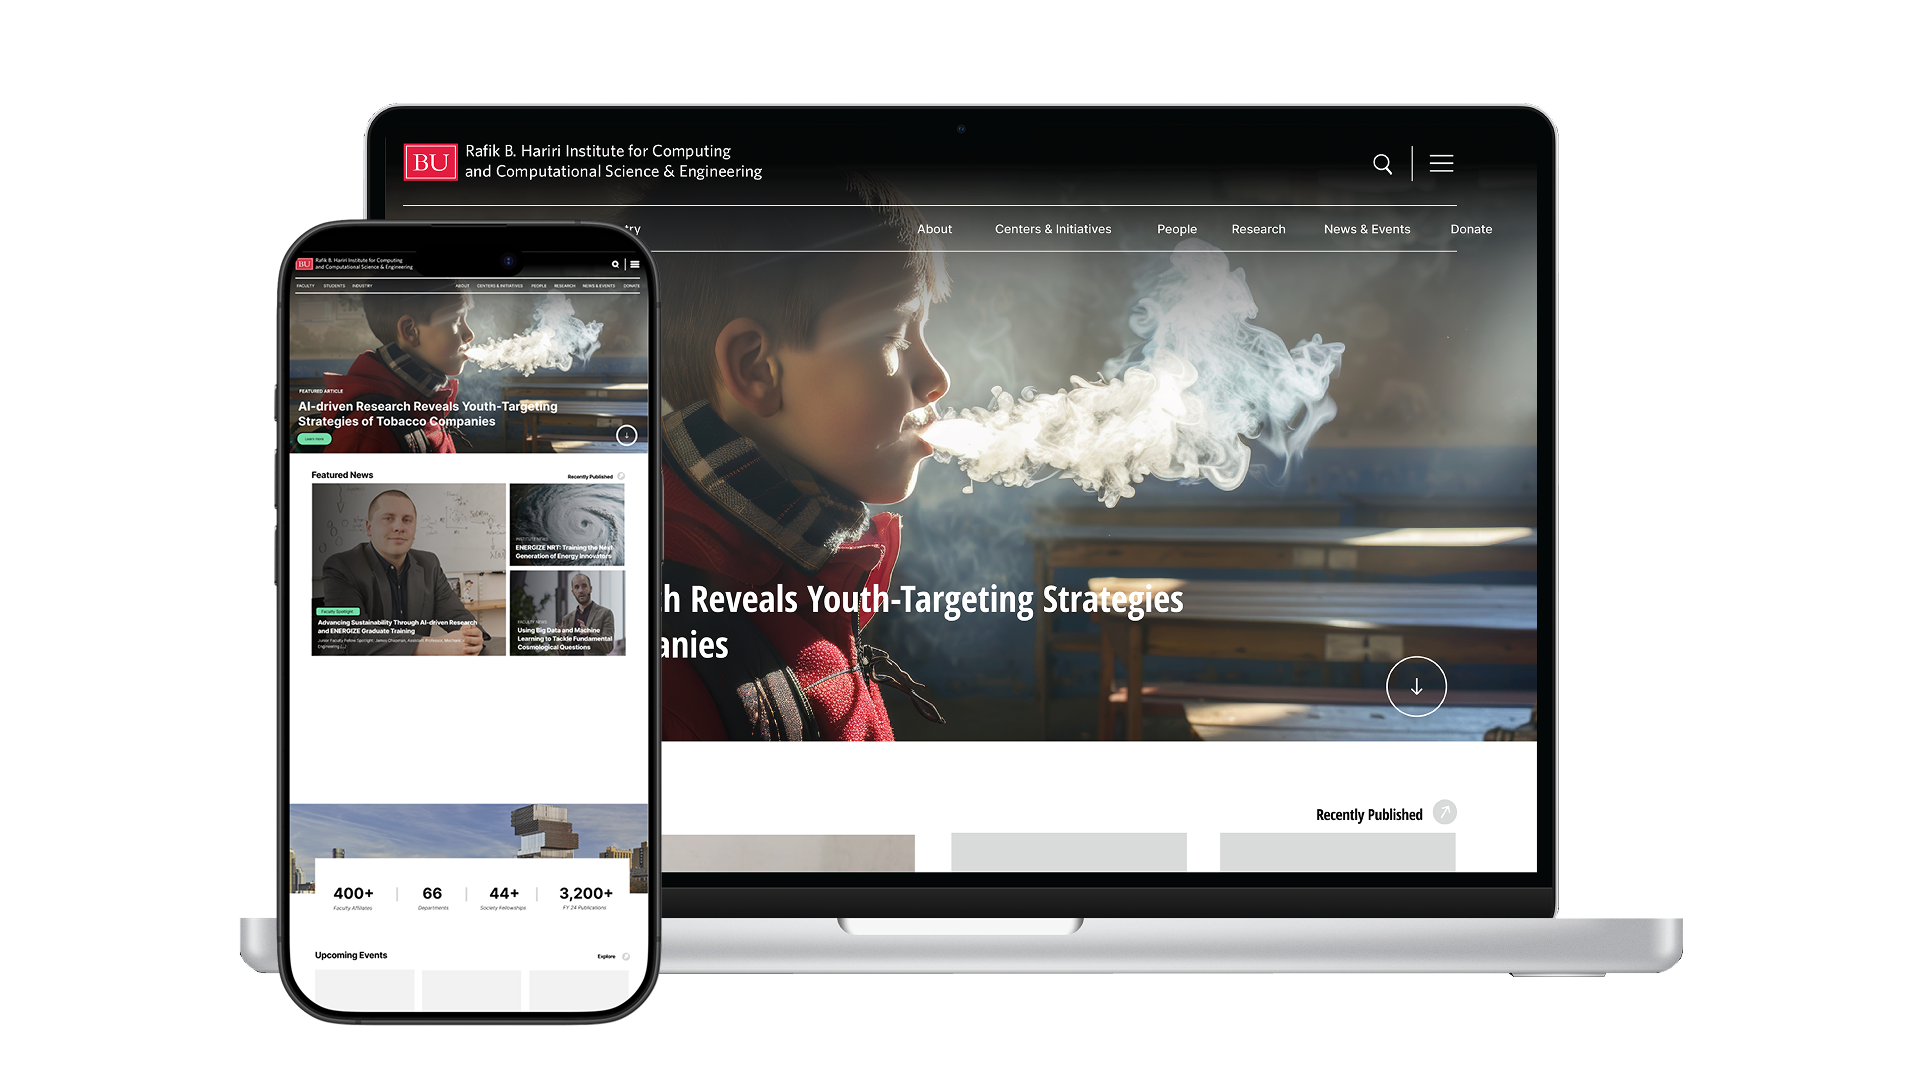
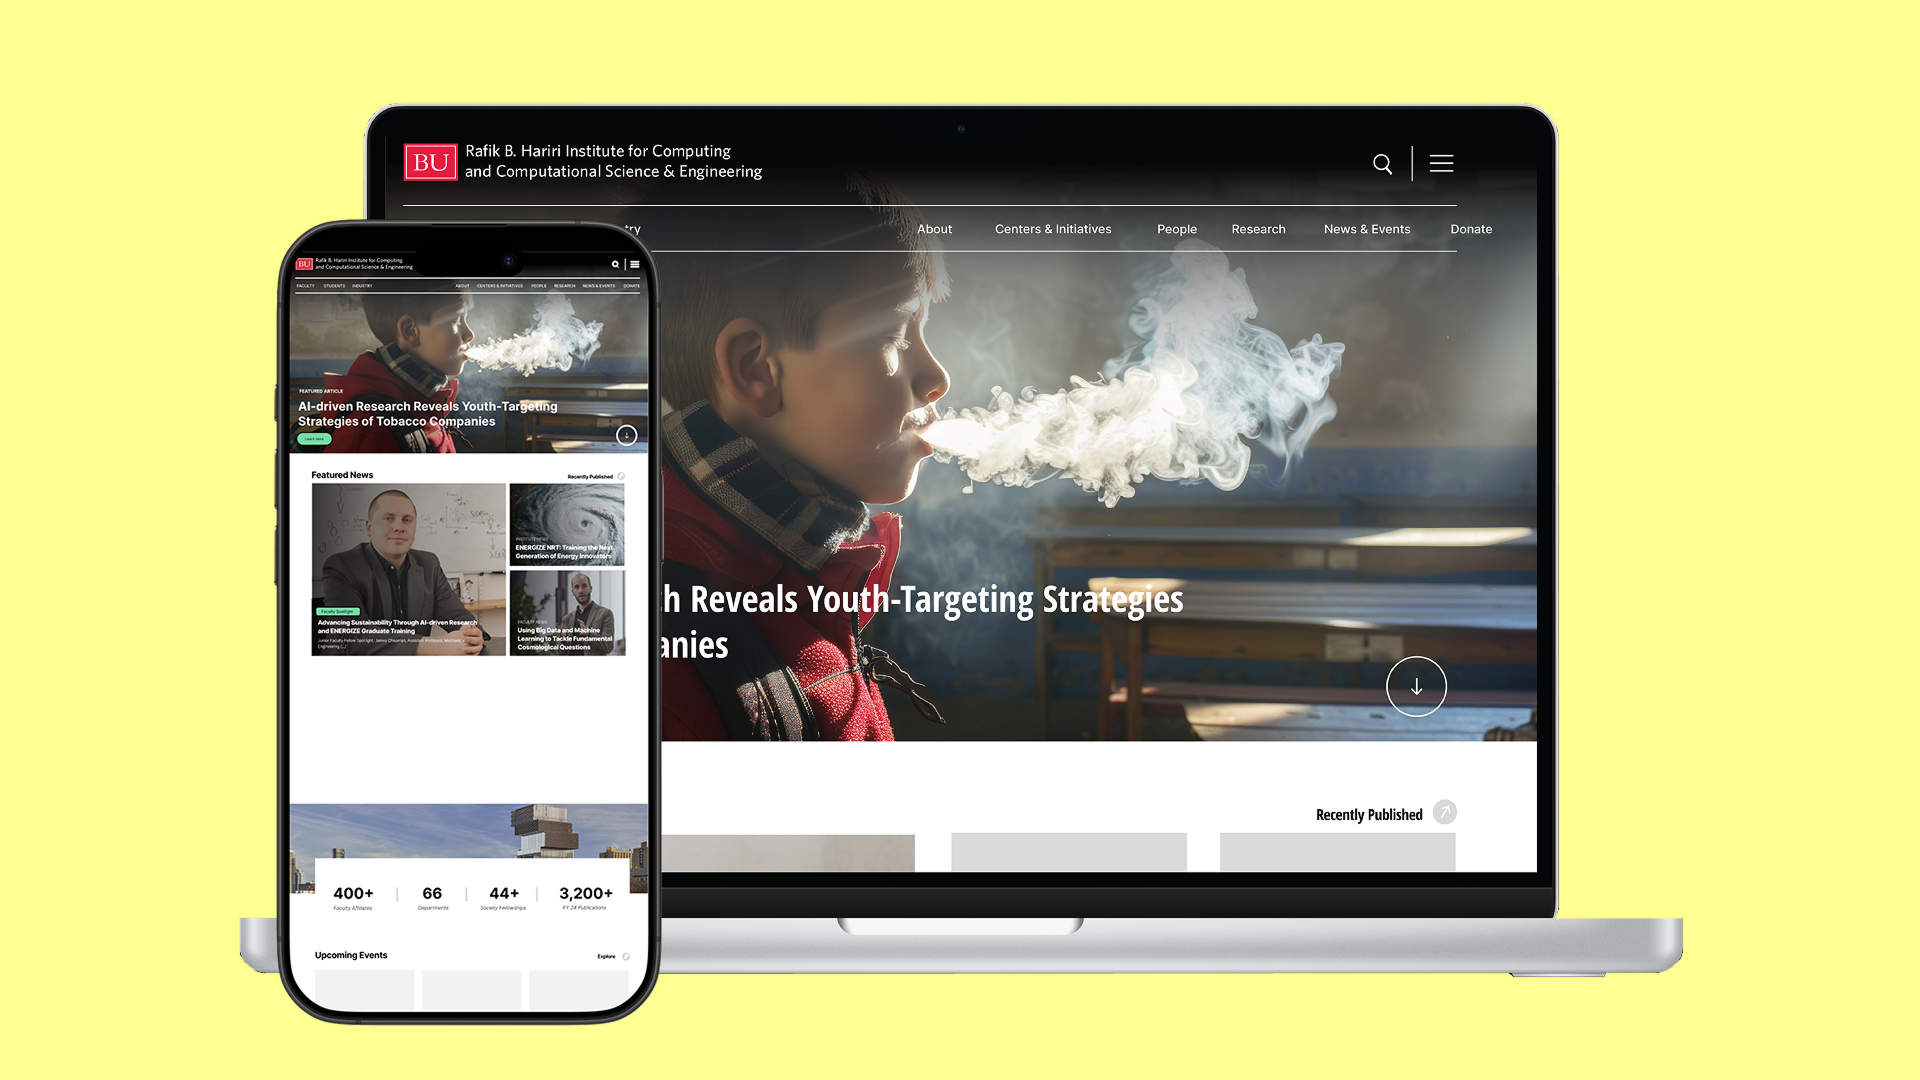
asdfsadfasdfasdfasdfdfsdf

diff --git a/src/app/about/page.tsx b/src/app/about/page.tsx
@@ -15,39 +15,68 @@ export default function About() {
       <Navigation />
       <main className="container mx-auto px-4 py-14">
         <div className="max-w-2xl mx-auto">
-        <div className="relative w-full">       
-          <Image
-            className="w-80 mt-12 h-auto rounded-full shadow-lg mx-auto"
-            src="/about.png"
-            width="500"
-            height="500"
-            alt="image"
-          />
-        </div>
           <h1 className="text-3xl font-semibold mt-8 mb-2 text-center">About Me</h1>
+          
+          <div className="relative w-full overflow-hidden mt-6 mb-12">
+            <div className="flex animate-scroll">
+              <div className="flex gap-6">
+                <Image
+                  className="w-64 h-64 object-cover rounded-lg shadow-lg"
+                  src="/images/image15.jpg"
+                  width="256"
+                  height="256"
+                  alt="Gallery image 1"
+                />
+                <Image
+                  className="w-64 h-64 object-cover rounded-lg shadow-lg"
+                  src="/images/image16.jpg"
+                  width="256"
+                  height="256"
+                  alt="Gallery image 2"
+                />
+                <Image
+                  className="w-64 h-64 object-cover rounded-lg shadow-lg"
+                  src="/images/image17.jpg"
+                  width="256"
+                  height="256"
+                  alt="Gallery image 3"
+                />
+                <Image
+                  className="w-64 h-64 object-cover rounded-lg shadow-lg"
+                  src="/images/image18.jpg"
+                  width="256"
+                  height="256"
+                  alt="Gallery image 4"
+                />
+              </div>
+              
+            </div>
+          </div>
+
+          <style jsx global>{`
+            @keyframes scroll {
+              0% {
+                transform: translateX(0);
+              }
+              100% {
+                transform: translateX(-50%);
+              }
+            }
+            .animate-scroll {
+              animation: scroll 20s linear infinite;
+              display: flex;
+              width: max-content;
+            }
+            .animate-scroll:hover {
+              animation-play-state: paused;
+            }
+          `}</style>
+
           <p className="text-md mb-4 text-center text-gray-700 dark:text-gray-300">Hi, I'm Heather Davies, a senior at Boston University, where I'm pursuing a B.F.A. in Graphic Design with a minor in Psychology. My academic journey, internships, and passion for design have equipped me with a unique blend of creative and technical expertise. Through coursework in UX/UI design, cognitive psychology, and design strategy, I've developed a deep understanding of how to craft meaningful, user-centered experiences that address real-world challenges</p>
           <h1 className="text-xl font-bold mt-8 mb-2 text-center">Passion for User-Centered Design </h1>
           <p className="text-md mb-4 text-center text-gray-700 dark:text-gray-300">I am deeply passionate about designing intuitive and impactful user experiences. By integrating principles of psychology, visual storytelling, and data-driven strategies, I thrive on creating designs that resonate with users and deliver measurable results. Whether it's simplifying workflows, improving usability, or enhancing brand identity, I'm driven by the opportunity to use design as a tool for positive change.</p>
-          <h1 className="text-xl font-bold mt-8 mb-2 text-center">Technical Proficiency</h1>
-          <p className="text-md mb-4 text-center text-gray-700 dark:text-gray-300">I bring a diverse set of skills to every project, blending creativity with technical know-how.
-            I am highly proficient in design tools like:
-            Figma, Photoshop, Illustrator, and Sketch.
-
-            I also excel in prototyping tools such as:
-            InVision and Principle, and I have front-end development skills in HTML and CSS, allowing me to bridge the gap between design and development.
-
-            In addition, I'm experienced with:
-            Asana, Jira, Trello, and agile methodologies like Scrum and Kanban.
-            These tools have supported my ability to manage product lifecycles, lead cross-functional teams, and deliver user-focused results.</p>
-          <h1 className="text-xl font-bold mt-8 mb-2 text-center">Projects and Experience          </h1>
-          <p className="text-md mb-4 text-center text-gray-700 dark:text-gray-300">Throughout my academic and professional journey, I've led and contributed to a wide range of impactful projects:
-
-            Talentora: As the Lead User Experience Designer, I developed the branding, user interface, and over 50 screens, increasing brand recognition and streamlining hiring processes through an AI-powered recruiting platform.
-            Boston University Ethical AI Dashboard: Designed an interactive dashboard integrating tools like ShadCN, MUI, and Next.js, supporting researchers in making responsible AI decisions.
-            Boston Children's Hospital ALS Resource App: Improved usability and satisfaction by 30% through intuitive interface designs.
-            DEI-Focused Consulting App: Led the design of workflows for a tool empowering companies to implement measurable diversity practices.</p>
-          <h1 className="text-xl font-semibold mt-8 mb-2 text-center">Constant Learner and Collaborative Team Member          </h1>
-          <p className="text-md mb-4 text-center text-gray-700 dark:text-gray-300">In the ever-evolving fields of UX/UI and design, I value the importance of continuous learning. I stay up-to-date with emerging trends and technologies, taking courses and attending workshops on topics like machine learning, agile methodologies, and accessibility in design.</p>
+           
+          
           <p className="text-md mb-4 text-center text-gray-700 dark:text-gray-300">I thrive in collaborative environments, whether I'm leading a team or contributing as a member. I believe the best solutions come from open communication and diverse perspectives.</p>
           <h1 className="text-xl font-bold mt-8 mb-2 text-center">Future Aspirations          </h1>
           <p className="text-md mb-4 text-center text-gray-700 dark:text-gray-300">As I approach graduation, I'm eager to bring my skills and passion to an innovative organization where I can create impactful user experiences. I'm especially interested in opportunities that combine design expertise with technical problem-solving to enhance user satisfaction and contribute to meaningful projects.</p>

diff --git a/src/components/project-filter.tsx b/src/components/project-filter.tsx
@@ -48,33 +48,63 @@ export function ProjectFilter({ tags, selectedTag, onTagSelect, onSearch }: Proj
 
   return (
     <div className="mb-8">
-      <div className="flex flex-wrap gap-3">
-        {sortedTags.map((tag) => (
-          <motion.button
-            key={tag}
-            onClick={() => onTagSelect(selectedTag === tag ? null : tag)}
-            className={cn(
-              "group flex items-center gap-2 whitespace-nowrap rounded-full border px-4 py-2 transition-all",
-              selectedTag === tag || (tag === "All Projects" && !selectedTag)
-                ? "border-primary bg-primary text-primary-foreground"
-                : "border-border bg-background hover:border-primary hover:bg-primary/10",
-            )}
-            whileHover={{ scale: 1.02 }}
-            whileTap={{ scale: 0.98 }}
-          >
-            <span
+      <div className="flex flex-col items-center gap-3">
+        <div className="flex flex-wrap justify-center gap-3">
+          {sortedTags.slice(0, Math.ceil(sortedTags.length / 2)).map((tag) => (
+            <motion.button
+              key={tag}
+              onClick={() => onTagSelect(selectedTag === tag ? null : tag)}
               className={cn(
-                "flex h-6 w-6 sm:h-7 sm:w-7 items-center justify-center rounded-full transition-colors",
+                "group flex items-center gap-2 whitespace-nowrap rounded-full border px-4 py-2 transition-all",
                 selectedTag === tag || (tag === "All Projects" && !selectedTag)
-                  ? "bg-primary-foreground text-primary"
-                  : "bg-muted text-muted-foreground group-hover:bg-primary/20 group-hover:text-primary",
+                  ? "border-primary bg-primary text-primary-foreground"
+                  : "border-border bg-background hover:border-primary hover:bg-primary/10",
               )}
+              whileHover={{ scale: 1.02 }}
+              whileTap={{ scale: 0.98 }}
             >
-              {tagIcons[tag]}
-            </span>
-            <span className="text-xs font-medium">{tag}</span>
-          </motion.button>
-        ))}
+              <span
+                className={cn(
+                  "flex h-6 w-6 sm:h-7 sm:w-7 items-center justify-center rounded-full transition-colors",
+                  selectedTag === tag || (tag === "All Projects" && !selectedTag)
+                    ? "bg-primary-foreground text-primary"
+                    : "bg-muted text-muted-foreground group-hover:bg-primary/20 group-hover:text-primary",
+                )}
+              >
+                {tagIcons[tag]}
+              </span>
+              <span className="text-xs font-medium">{tag}</span>
+            </motion.button>
+          ))}
+        </div>
+        <div className="flex flex-wrap justify-center gap-3">
+          {sortedTags.slice(Math.ceil(sortedTags.length / 2)).map((tag) => (
+            <motion.button
+              key={tag}
+              onClick={() => onTagSelect(selectedTag === tag ? null : tag)}
+              className={cn(
+                "group flex items-center gap-2 whitespace-nowrap rounded-full border px-4 py-2 transition-all",
+                selectedTag === tag || (tag === "All Projects" && !selectedTag)
+                  ? "border-primary bg-primary text-primary-foreground"
+                  : "border-border bg-background hover:border-primary hover:bg-primary/10",
+              )}
+              whileHover={{ scale: 1.02 }}
+              whileTap={{ scale: 0.98 }}
+            >
+              <span
+                className={cn(
+                  "flex h-6 w-6 sm:h-7 sm:w-7 items-center justify-center rounded-full transition-colors",
+                  selectedTag === tag || (tag === "All Projects" && !selectedTag)
+                    ? "bg-primary-foreground text-primary"
+                    : "bg-muted text-muted-foreground group-hover:bg-primary/20 group-hover:text-primary",
+                )}
+              >
+                {tagIcons[tag]}
+              </span>
+              <span className="text-xs font-medium">{tag}</span>
+            </motion.button>
+          ))}
+        </div>
       </div>
     </div>
   )

diff --git a/src/components/navigation.tsx b/src/components/navigation.tsx
@@ -94,32 +94,13 @@ export function Navigation() {
                 </NavigationMenuItem>
                 <NavigationMenuItem>
                   <a 
-                    href="https://www.linkedin.com/in/heatherrdavies/" 
-                    target="_blank" 
-                    rel="noopener noreferrer"
-                    className={cn(
-                      "group inline-flex h-10 w-10 items-center justify-center rounded-full overflow-hidden hover:border-pink-500 transition-colors"
-                    )}
-                  >
-                    <img
-                      src="/images/linkedin.png"
-                      alt="Contact"
-                      className="w-full h-full object-cover group-hover:scale-105 transition-transform"
-                    />
-                  </a>
-                </NavigationMenuItem>
-                <NavigationMenuItem className="ml-20">
-                  <a 
                     href="mailto:daviesheather518@gmail.com"
                     className={cn(
-                      "group inline-flex h-10 w-10 items-center justify-center rounded-full overflow-hidden hover:border-pink-500 transition-colors"
+                      navigationMenuTriggerStyle(),
+                      "hover:text-pink-500"
                     )}
                   >
-                    <img
-                      src="/images/mail.png"
-                      alt="Email"
-                      className="w-full h-full object-cover group-hover:scale-105 transition-transform scale-110"
-                    />
+                    <h3>Contact</h3>
                   </a>
                 </NavigationMenuItem>
               </NavigationMenuList>
@@ -153,34 +134,12 @@ export function Navigation() {
                   )}>
                     About
                   </Link>
-                  <div className="flex gap-20">
-                    <a 
-                      href="https://www.linkedin.com/in/heatherrdavies/" 
-                      target="_blank" 
-                      rel="noopener noreferrer"
-                      className={cn(
-                        "group w-8 h-8 rounded-full overflow-hidden hover:border-pink-500 transition-colors"
-                      )}
-                    >
-                      <img
-                        src="/images/linkedin.png"
-                        alt="Contact"
-                        className="w-full h-full object-cover group-hover:scale-105 transition-transform"
-                      />
-                    </a>
-                    <a 
-                      href="mailto:daviesheather518@gmail.com"
-                      className={cn(
-                        "group w-8 h-8 rounded-full overflow-hidden hover:border-pink-500 transition-colors"
-                      )}
-                    >
-                      <img
-                        src="/images/mail.png"
-                        alt="Email"
-                        className="w-full h-full object-cover group-hover:scale-105 transition-transform scale-110"
-                      />
-                    </a>
-                  </div>
+                  <a 
+                    href="mailto:daviesheather518@gmail.com"
+                    className="text-sm transition-colors hover:text-pink-500"
+                  >
+                    Contact
+                  </a>
                 </nav>
               </SheetContent>
             </Sheet>

diff --git a/src/app/projects/page.tsx b/src/app/projects/page.tsx
@@ -44,7 +44,7 @@ export default function ProjectsPage() {
               <div className="relative">
                 <div className="absolute inset-0 blur-3xl -z-10 bg-[radial-gradient(circle,rgba(236,72,153,0.6)_0%,transparent_70%)]" />
                 <h1 className="text-foreground text-1xl font-semibold tracking-tight text-7xl">
-                  Featured Projects
+                  Projects
                 </h1>
                 <p className=" mt-6 text-md leading-8 text-gray-700 dark:text-gray-200 mb-6">
                 Crafting digital experiences. 
@@ -56,12 +56,9 @@ export default function ProjectsPage() {
       </section>
 
       {/* Projects Section */}
-      <section ref={projectsRef} className="flex mx-auto max-w-full min-h-screen px-12 pt-22">
-        <div className="container -mb-2">
-          <div className="flex items-center space-x-2">
-
-       
-      
+      <section ref={projectsRef} className="flex mx-auto w-full min-h-screen px-4 sm:px-12 pt-22">
+        <div className="container mx-auto max-w-7xl">
+          <div className="flex items-center justify-center space-x-2">
           </div>
 
           <ProjectFilter
@@ -71,7 +68,7 @@ export default function ProjectsPage() {
             onSearch={setSearchQuery}
           />
 
-          <div className="grid gap-6 sm:grid-cols-2 lg:grid-cols-3">
+          <div className="grid gap-6 sm:grid-cols-2 lg:grid-cols-3 justify-items-center">
             {filteredProjects.map((project) => (
               <ProjectCard key={project.href} project={project} />
             ))}
